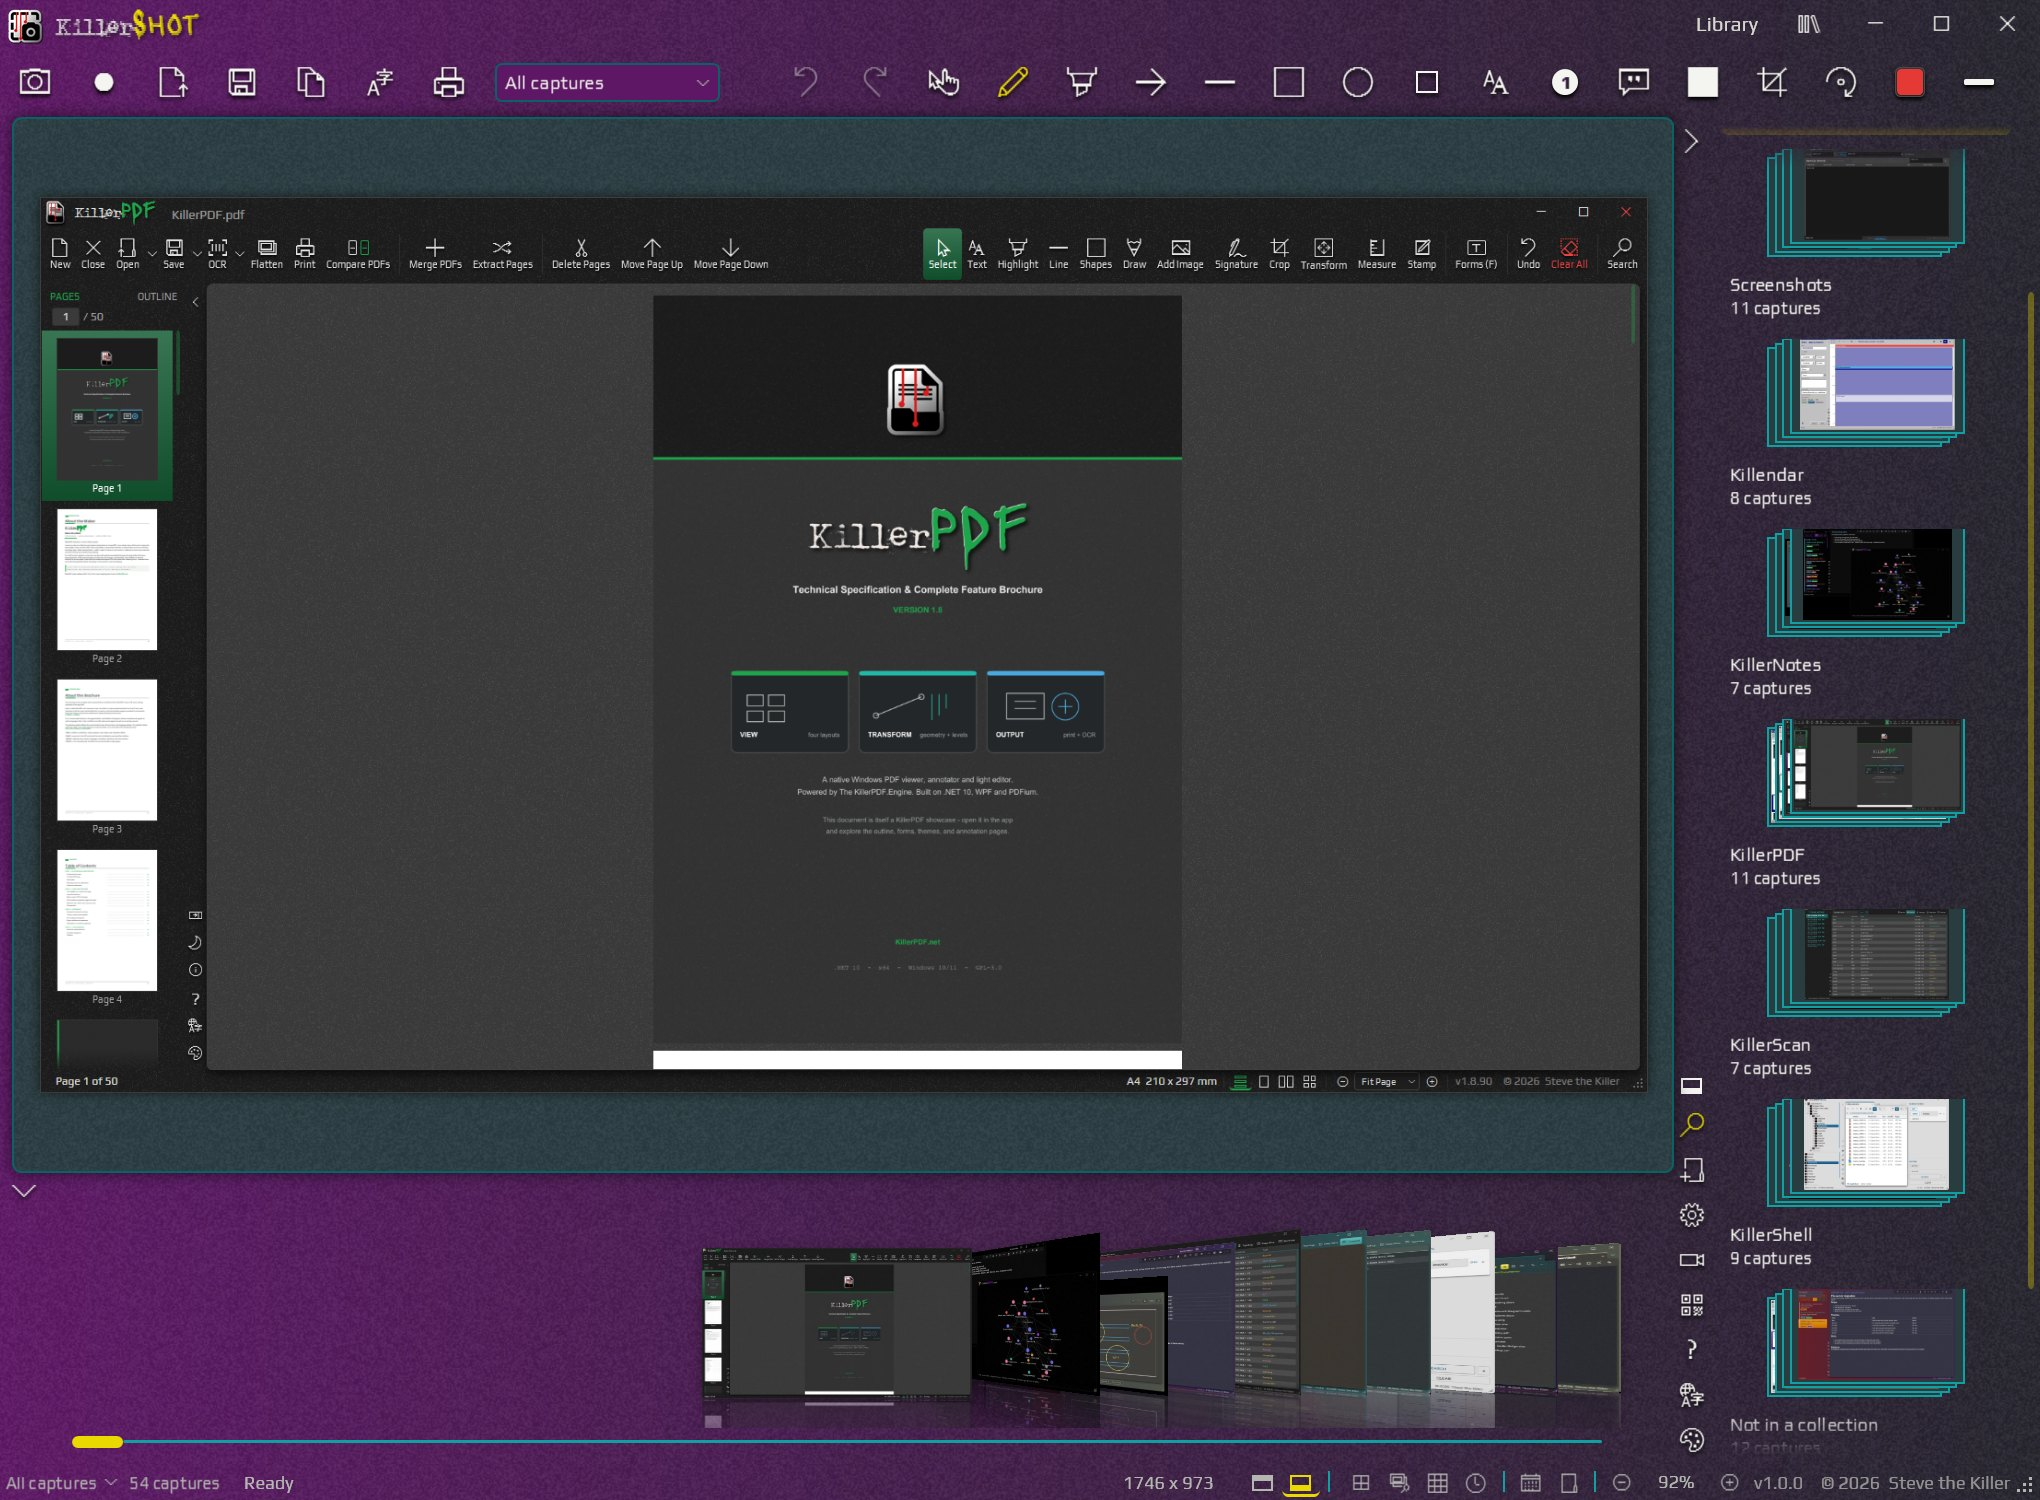
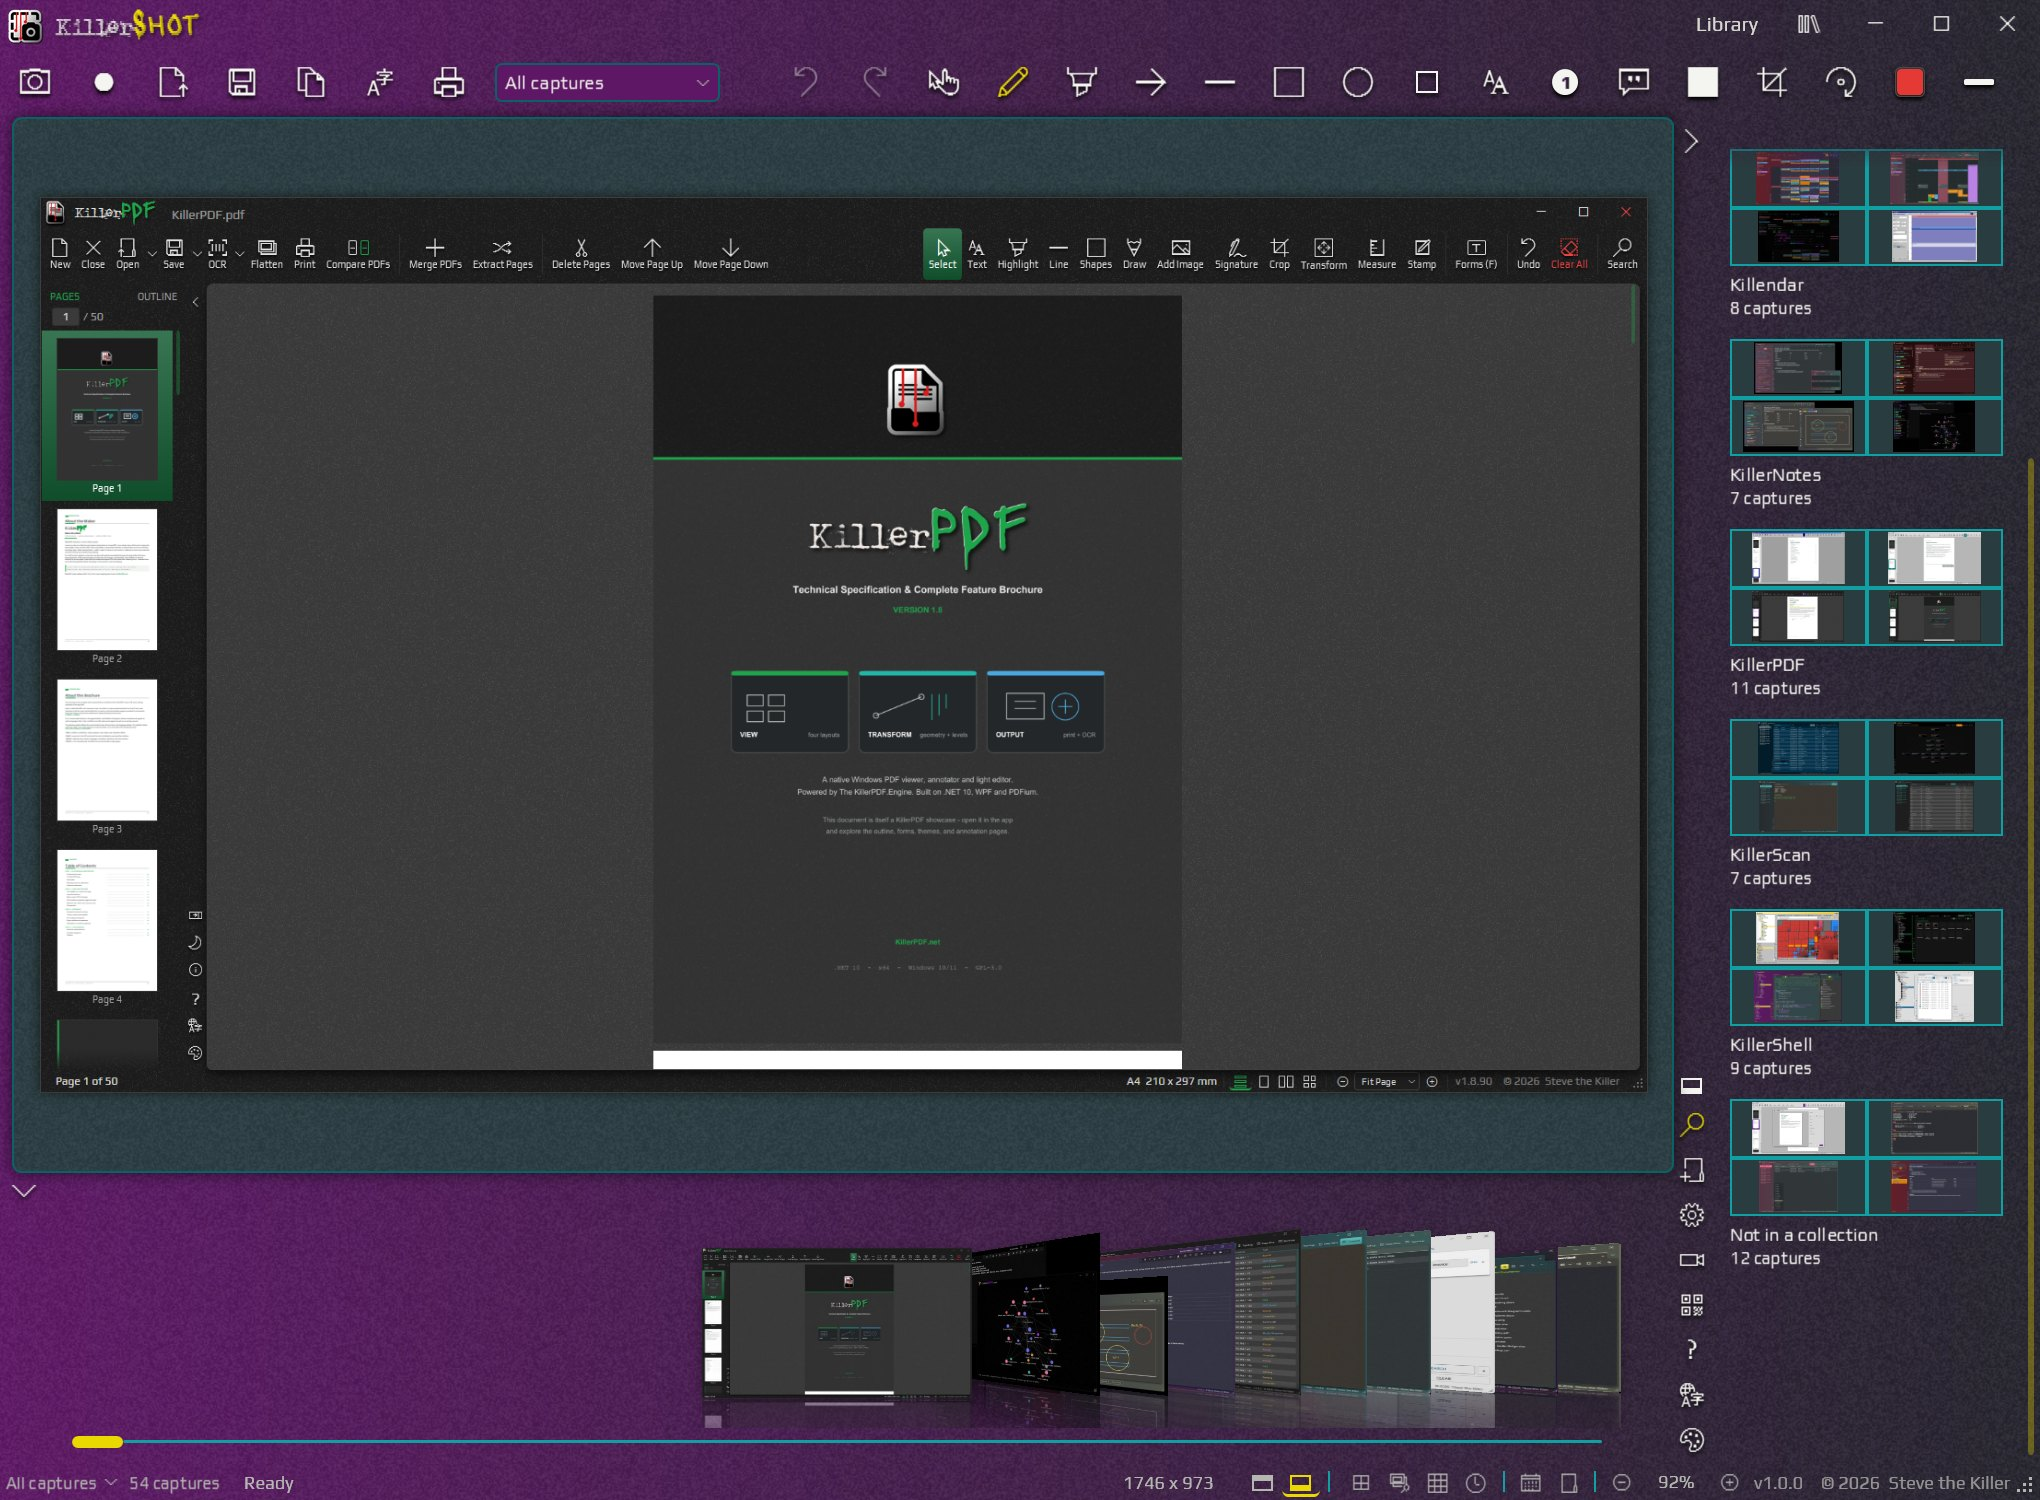
Spread the four sidebar preview styles evenly across the landing shots

Changed region(s): [[0.8338, 0.092, 1.0, 0.9507], [0.9882, 0.8587, 1.0, 0.9813]]

diff --git a/Shell/DemoMode.cs b/Shell/DemoMode.cs
@@ -201,25 +201,28 @@ internal static class SelfTestDemo
                 Look(Theme.Cyanotic, Accent.Blue);
                 w.Width = 1200; w.Height = 900;
                 Dock(KillerFamily.Layout.DockSide.Left, KillerFamily.Layout.DockSide.Top);
-                Preview("stack");
+                Preview("pile");
                 w.TestStrip!.TestScrollTo(0.5);
                 view.TestSet("grid", "date", "theme");
                 await Shot("landing-05-search-cyanotic");
 
                 Look(Theme.Dark, Accent.Orange);
                 w.Width = 1600; w.Height = 1000;
+                Preview("stack");
                 w.TestOpenLibraryCapture(keepAlive);
                 Dock(KillerFamily.Layout.DockSide.Left, KillerFamily.Layout.DockSide.Top);
                 await Shot("landing-06-editor-strip-top");
 
                 Look(Theme.Ectoplasm, Accent.Green);
                 w.Width = 1360; w.Height = 1000;
+                Preview("grid");
                 w.TestOpenLibraryCapture(pdf);
                 Dock(KillerFamily.Layout.DockSide.Right, KillerFamily.Layout.DockSide.Bottom);
                 await Shot("landing-07-editor-right-bottom");
 
                 Look(Theme.Delirium, Accent.Magenta);
                 w.Width = 1440; w.Height = 900;
+                Preview("mini");
                 Dock(KillerFamily.Layout.DockSide.Left, KillerFamily.Layout.DockSide.Top);
                 w.TestShowCaptureSettings();
                 await Shot("landing-08-capture-settings");
@@ -227,7 +230,7 @@ internal static class SelfTestDemo
 
                 Look(Theme.SE98, Accent.Teal);
                 w.Width = 1024; w.Height = 768;
-                Preview("grid");
+                Preview("pile");
                 w.TestStrip!.TestScrollTo(0.2);
                 w.TestToggleLibrary();
                 view.TestSet("shelves", "date", "");
